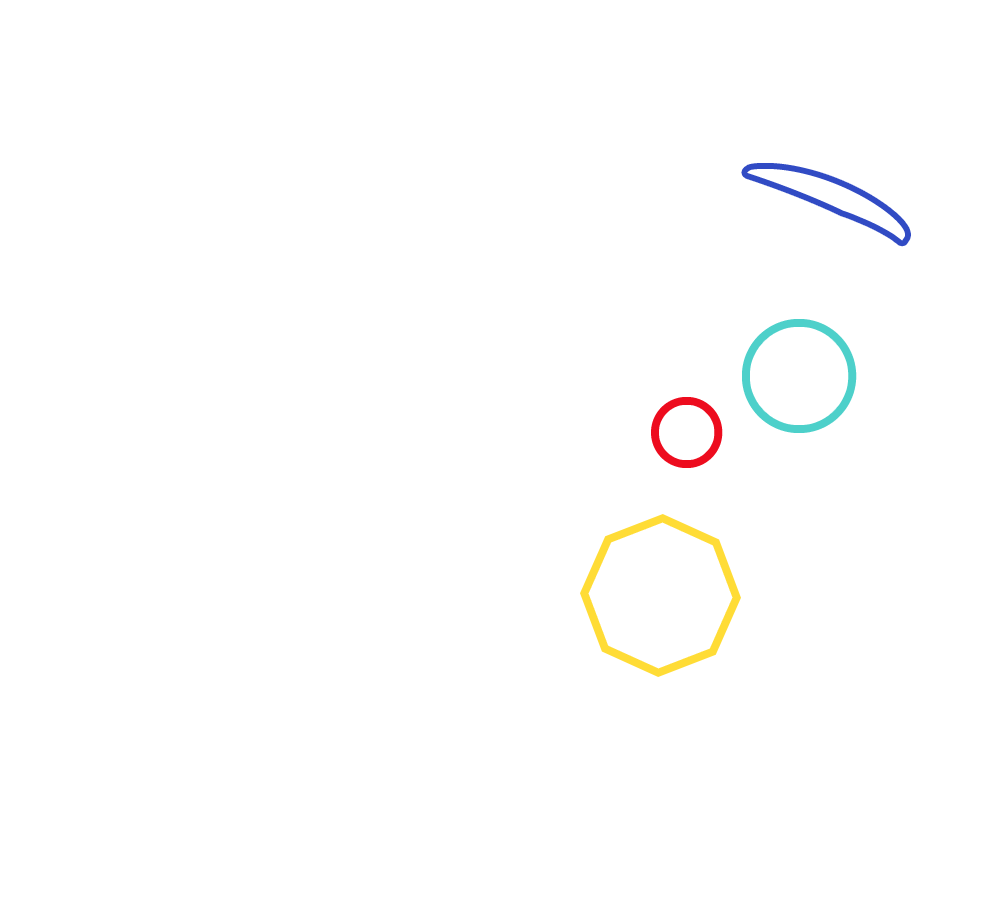
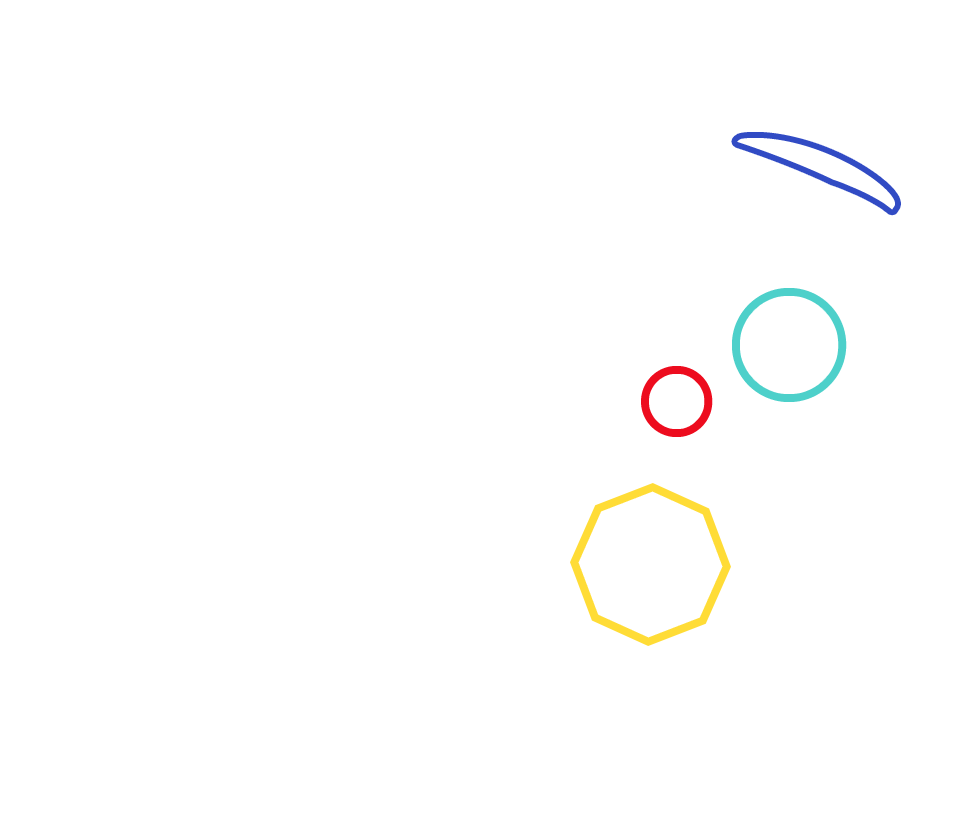
Add files via upload

diff --git a/minimalist white/style.css b/minimalist white/style.css
@@ -1,8 +1,8 @@
 /*BEGIN GameCube Controller Styling*/
 .controller.gc {
     background: url(base.png) no-repeat;
-    height: 900px;
-    width: 1000px;
+    height: 979px;
+    width: 837px;
 }
 
 .gc .triggers {
